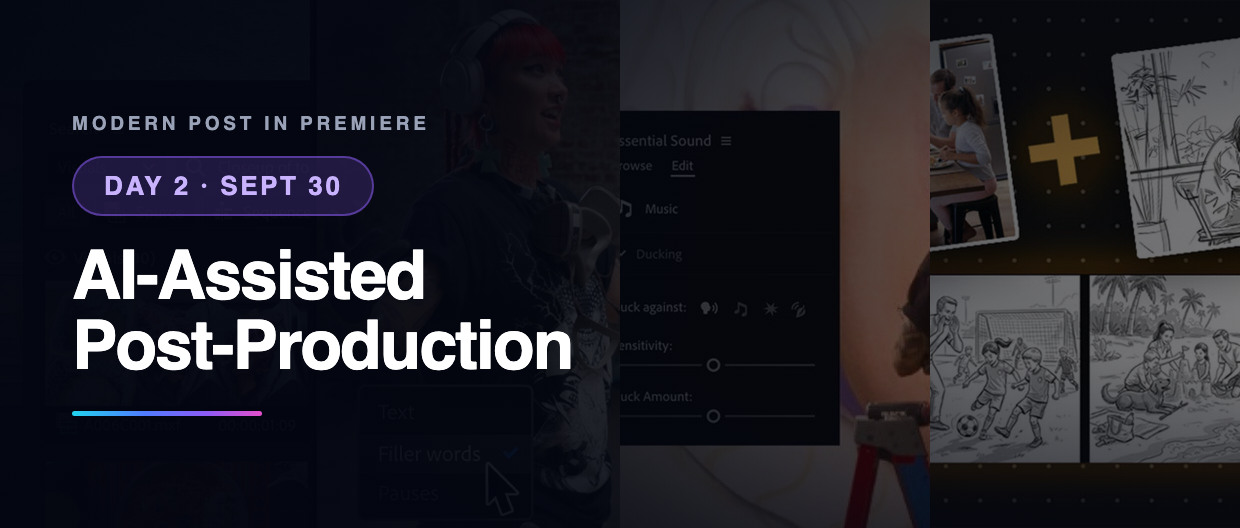
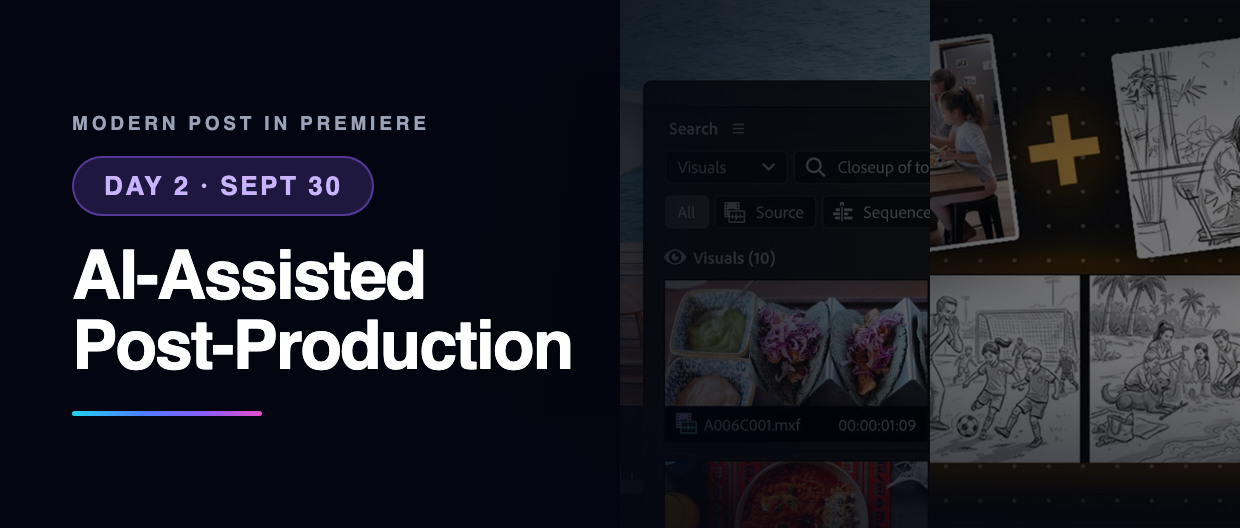
Email 3 hero: shift imagery clear of the headline
Went with the three-up direction, then fixed the crowding: the headline ends at x=569
and the imagery previously began at x=440, so the interface panel ran under the type.
Imagery now starts at x=620, giving 51px (26px at display size) of clean ground.

At that shift three panels would each be 206px (ratio 0.39) and the middle one becomes an
unreadable sliver of UI, so it is two full panels instead - Media Intelligence search and
Firefly Boards. Still covers find-footage through visualise, which was the point of moving
off the Firefly-only original.

diff --git a/assets/_herobuild/hero-alt-b1.html b/assets/_herobuild/hero-alt-b1.html
@@ -1,0 +1,21 @@
+<!DOCTYPE html><html><head><meta charset="utf-8">
+<link href="https://fonts.googleapis.com/css2?family=Source+Sans+3:wght@350;600;700;800&display=swap" rel="stylesheet">
+<style>
+ *{margin:0;padding:0;box-sizing:border-box}
+ html,body{width:1240px;height:528px;overflow:hidden;background:#030611;font-family:'Source Sans 3',sans-serif}
+ .h{position:relative;width:1240px;height:528px;overflow:hidden}
+ .bg{position:absolute;inset:0;width:100%;height:100%;object-fit:cover;filter:brightness(.52) saturate(.92)}
+ .scrim{position:absolute;inset:0;background:linear-gradient(96deg,rgba(3,6,17,.97) 0%,rgba(3,6,17,.92) 30%,rgba(3,6,17,.62) 54%,rgba(3,6,17,.22) 78%,rgba(3,6,17,.10) 100%)}
+ .vig{position:absolute;inset:0;background:linear-gradient(180deg,rgba(3,6,17,.35),transparent 30%,transparent 68%,rgba(3,6,17,.55))}
+ .c{position:relative;z-index:2;height:100%;display:flex;flex-direction:column;justify-content:center;padding-left:72px;max-width:800px}
+ .evt{font-size:19px;font-weight:700;letter-spacing:.2em;text-transform:uppercase;color:#9AA2B8;margin-bottom:22px}
+ .pill{display:inline-flex;width:fit-content;font-size:26px;font-weight:800;letter-spacing:.1em;text-transform:uppercase;
+   padding:13px 30px;border-radius:999px;margin-bottom:26px;background:rgba(139,92,246,.20);color:#C9B3FF;border:2px solid rgba(139,92,246,.5)}
+ .t{font-size:68px;font-weight:800;color:#fff;line-height:1.02;letter-spacing:-.028em}
+ .rule{margin-top:30px;width:190px;height:5px;border-radius:3px;
+   background:linear-gradient(90deg,#22D3EE,#4F7CFF 38%,#8B5CF6 70%,#E34FCB)}
+</style></head><body>
+<div class="h"><img class="bg" src="alt-b1.jpg"><div class="scrim"></div><div class="vig"></div>
+ <div class="c"><div class="evt">Modern Post in Premiere</div>
+  <div class="pill">Day 2 &middot; Sept 30</div><div class="t">AI-Assisted<br>Post-Production</div><div class="rule"></div></div>
+</div></body></html>

diff --git a/assets/_herobuild/hero-alt-b2.html b/assets/_herobuild/hero-alt-b2.html
@@ -1,0 +1,21 @@
+<!DOCTYPE html><html><head><meta charset="utf-8">
+<link href="https://fonts.googleapis.com/css2?family=Source+Sans+3:wght@350;600;700;800&display=swap" rel="stylesheet">
+<style>
+ *{margin:0;padding:0;box-sizing:border-box}
+ html,body{width:1240px;height:528px;overflow:hidden;background:#030611;font-family:'Source Sans 3',sans-serif}
+ .h{position:relative;width:1240px;height:528px;overflow:hidden}
+ .bg{position:absolute;inset:0;width:100%;height:100%;object-fit:cover;filter:brightness(.52) saturate(.92)}
+ .scrim{position:absolute;inset:0;background:linear-gradient(96deg,rgba(3,6,17,.97) 0%,rgba(3,6,17,.92) 30%,rgba(3,6,17,.62) 54%,rgba(3,6,17,.22) 78%,rgba(3,6,17,.10) 100%)}
+ .vig{position:absolute;inset:0;background:linear-gradient(180deg,rgba(3,6,17,.35),transparent 30%,transparent 68%,rgba(3,6,17,.55))}
+ .c{position:relative;z-index:2;height:100%;display:flex;flex-direction:column;justify-content:center;padding-left:72px;max-width:800px}
+ .evt{font-size:19px;font-weight:700;letter-spacing:.2em;text-transform:uppercase;color:#9AA2B8;margin-bottom:22px}
+ .pill{display:inline-flex;width:fit-content;font-size:26px;font-weight:800;letter-spacing:.1em;text-transform:uppercase;
+   padding:13px 30px;border-radius:999px;margin-bottom:26px;background:rgba(139,92,246,.20);color:#C9B3FF;border:2px solid rgba(139,92,246,.5)}
+ .t{font-size:68px;font-weight:800;color:#fff;line-height:1.02;letter-spacing:-.028em}
+ .rule{margin-top:30px;width:190px;height:5px;border-radius:3px;
+   background:linear-gradient(90deg,#22D3EE,#4F7CFF 38%,#8B5CF6 70%,#E34FCB)}
+</style></head><body>
+<div class="h"><img class="bg" src="alt-b2.jpg"><div class="scrim"></div><div class="vig"></div>
+ <div class="c"><div class="evt">Modern Post in Premiere</div>
+  <div class="pill">Day 2 &middot; Sept 30</div><div class="t">AI-Assisted<br>Post-Production</div><div class="rule"></div></div>
+</div></body></html>

diff --git a/assets/_herobuild/hero-alt-b3.html b/assets/_herobuild/hero-alt-b3.html
@@ -1,0 +1,21 @@
+<!DOCTYPE html><html><head><meta charset="utf-8">
+<link href="https://fonts.googleapis.com/css2?family=Source+Sans+3:wght@350;600;700;800&display=swap" rel="stylesheet">
+<style>
+ *{margin:0;padding:0;box-sizing:border-box}
+ html,body{width:1240px;height:528px;overflow:hidden;background:#030611;font-family:'Source Sans 3',sans-serif}
+ .h{position:relative;width:1240px;height:528px;overflow:hidden}
+ .bg{position:absolute;inset:0;width:100%;height:100%;object-fit:cover;filter:brightness(.52) saturate(.92)}
+ .scrim{position:absolute;inset:0;background:linear-gradient(96deg,rgba(3,6,17,.97) 0%,rgba(3,6,17,.92) 30%,rgba(3,6,17,.62) 54%,rgba(3,6,17,.22) 78%,rgba(3,6,17,.10) 100%)}
+ .vig{position:absolute;inset:0;background:linear-gradient(180deg,rgba(3,6,17,.35),transparent 30%,transparent 68%,rgba(3,6,17,.55))}
+ .c{position:relative;z-index:2;height:100%;display:flex;flex-direction:column;justify-content:center;padding-left:72px;max-width:800px}
+ .evt{font-size:19px;font-weight:700;letter-spacing:.2em;text-transform:uppercase;color:#9AA2B8;margin-bottom:22px}
+ .pill{display:inline-flex;width:fit-content;font-size:26px;font-weight:800;letter-spacing:.1em;text-transform:uppercase;
+   padding:13px 30px;border-radius:999px;margin-bottom:26px;background:rgba(139,92,246,.20);color:#C9B3FF;border:2px solid rgba(139,92,246,.5)}
+ .t{font-size:68px;font-weight:800;color:#fff;line-height:1.02;letter-spacing:-.028em}
+ .rule{margin-top:30px;width:190px;height:5px;border-radius:3px;
+   background:linear-gradient(90deg,#22D3EE,#4F7CFF 38%,#8B5CF6 70%,#E34FCB)}
+</style></head><body>
+<div class="h"><img class="bg" src="alt-b3.jpg"><div class="scrim"></div><div class="vig"></div>
+ <div class="c"><div class="evt">Modern Post in Premiere</div>
+  <div class="pill">Day 2 &middot; Sept 30</div><div class="t">AI-Assisted<br>Post-Production</div><div class="rule"></div></div>
+</div></body></html>

diff --git a/assets/_herobuild/hero-alt-c1.html b/assets/_herobuild/hero-alt-c1.html
@@ -1,0 +1,21 @@
+<!DOCTYPE html><html><head><meta charset="utf-8">
+<link href="https://fonts.googleapis.com/css2?family=Source+Sans+3:wght@350;600;700;800&display=swap" rel="stylesheet">
+<style>
+ *{margin:0;padding:0;box-sizing:border-box}
+ html,body{width:1240px;height:528px;overflow:hidden;background:#030611;font-family:'Source Sans 3',sans-serif}
+ .h{position:relative;width:1240px;height:528px;overflow:hidden}
+ .bg{position:absolute;inset:0;width:100%;height:100%;object-fit:cover;filter:brightness(.52) saturate(.92)}
+ .scrim{position:absolute;inset:0;background:linear-gradient(96deg,rgba(3,6,17,.97) 0%,rgba(3,6,17,.92) 30%,rgba(3,6,17,.62) 54%,rgba(3,6,17,.22) 78%,rgba(3,6,17,.10) 100%)}
+ .vig{position:absolute;inset:0;background:linear-gradient(180deg,rgba(3,6,17,.35),transparent 30%,transparent 68%,rgba(3,6,17,.55))}
+ .c{position:relative;z-index:2;height:100%;display:flex;flex-direction:column;justify-content:center;padding-left:72px;max-width:800px}
+ .evt{font-size:19px;font-weight:700;letter-spacing:.2em;text-transform:uppercase;color:#9AA2B8;margin-bottom:22px}
+ .pill{display:inline-flex;width:fit-content;font-size:26px;font-weight:800;letter-spacing:.1em;text-transform:uppercase;
+   padding:13px 30px;border-radius:999px;margin-bottom:26px;background:rgba(139,92,246,.20);color:#C9B3FF;border:2px solid rgba(139,92,246,.5)}
+ .t{font-size:68px;font-weight:800;color:#fff;line-height:1.02;letter-spacing:-.028em}
+ .rule{margin-top:30px;width:190px;height:5px;border-radius:3px;
+   background:linear-gradient(90deg,#22D3EE,#4F7CFF 38%,#8B5CF6 70%,#E34FCB)}
+</style></head><body>
+<div class="h"><img class="bg" src="alt-c1.jpg"><div class="scrim"></div><div class="vig"></div>
+ <div class="c"><div class="evt">Modern Post in Premiere</div>
+  <div class="pill">Day 2 &middot; Sept 30</div><div class="t">AI-Assisted<br>Post-Production</div><div class="rule"></div></div>
+</div></body></html>

diff --git a/assets/_herobuild/hero-alt-c2.html b/assets/_herobuild/hero-alt-c2.html
@@ -1,0 +1,21 @@
+<!DOCTYPE html><html><head><meta charset="utf-8">
+<link href="https://fonts.googleapis.com/css2?family=Source+Sans+3:wght@350;600;700;800&display=swap" rel="stylesheet">
+<style>
+ *{margin:0;padding:0;box-sizing:border-box}
+ html,body{width:1240px;height:528px;overflow:hidden;background:#030611;font-family:'Source Sans 3',sans-serif}
+ .h{position:relative;width:1240px;height:528px;overflow:hidden}
+ .bg{position:absolute;inset:0;width:100%;height:100%;object-fit:cover;filter:brightness(.52) saturate(.92)}
+ .scrim{position:absolute;inset:0;background:linear-gradient(96deg,rgba(3,6,17,.97) 0%,rgba(3,6,17,.92) 30%,rgba(3,6,17,.62) 54%,rgba(3,6,17,.22) 78%,rgba(3,6,17,.10) 100%)}
+ .vig{position:absolute;inset:0;background:linear-gradient(180deg,rgba(3,6,17,.35),transparent 30%,transparent 68%,rgba(3,6,17,.55))}
+ .c{position:relative;z-index:2;height:100%;display:flex;flex-direction:column;justify-content:center;padding-left:72px;max-width:800px}
+ .evt{font-size:19px;font-weight:700;letter-spacing:.2em;text-transform:uppercase;color:#9AA2B8;margin-bottom:22px}
+ .pill{display:inline-flex;width:fit-content;font-size:26px;font-weight:800;letter-spacing:.1em;text-transform:uppercase;
+   padding:13px 30px;border-radius:999px;margin-bottom:26px;background:rgba(139,92,246,.20);color:#C9B3FF;border:2px solid rgba(139,92,246,.5)}
+ .t{font-size:68px;font-weight:800;color:#fff;line-height:1.02;letter-spacing:-.028em}
+ .rule{margin-top:30px;width:190px;height:5px;border-radius:3px;
+   background:linear-gradient(90deg,#22D3EE,#4F7CFF 38%,#8B5CF6 70%,#E34FCB)}
+</style></head><body>
+<div class="h"><img class="bg" src="alt-c2.jpg"><div class="scrim"></div><div class="vig"></div>
+ <div class="c"><div class="evt">Modern Post in Premiere</div>
+  <div class="pill">Day 2 &middot; Sept 30</div><div class="t">AI-Assisted<br>Post-Production</div><div class="rule"></div></div>
+</div></body></html>

diff --git a/assets/_herobuild/hero-alt-c3.html b/assets/_herobuild/hero-alt-c3.html
@@ -1,0 +1,21 @@
+<!DOCTYPE html><html><head><meta charset="utf-8">
+<link href="https://fonts.googleapis.com/css2?family=Source+Sans+3:wght@350;600;700;800&display=swap" rel="stylesheet">
+<style>
+ *{margin:0;padding:0;box-sizing:border-box}
+ html,body{width:1240px;height:528px;overflow:hidden;background:#030611;font-family:'Source Sans 3',sans-serif}
+ .h{position:relative;width:1240px;height:528px;overflow:hidden}
+ .bg{position:absolute;inset:0;width:100%;height:100%;object-fit:cover;filter:brightness(.52) saturate(.92)}
+ .scrim{position:absolute;inset:0;background:linear-gradient(96deg,rgba(3,6,17,.97) 0%,rgba(3,6,17,.92) 30%,rgba(3,6,17,.62) 54%,rgba(3,6,17,.22) 78%,rgba(3,6,17,.10) 100%)}
+ .vig{position:absolute;inset:0;background:linear-gradient(180deg,rgba(3,6,17,.35),transparent 30%,transparent 68%,rgba(3,6,17,.55))}
+ .c{position:relative;z-index:2;height:100%;display:flex;flex-direction:column;justify-content:center;padding-left:72px;max-width:800px}
+ .evt{font-size:19px;font-weight:700;letter-spacing:.2em;text-transform:uppercase;color:#9AA2B8;margin-bottom:22px}
+ .pill{display:inline-flex;width:fit-content;font-size:26px;font-weight:800;letter-spacing:.1em;text-transform:uppercase;
+   padding:13px 30px;border-radius:999px;margin-bottom:26px;background:rgba(139,92,246,.20);color:#C9B3FF;border:2px solid rgba(139,92,246,.5)}
+ .t{font-size:68px;font-weight:800;color:#fff;line-height:1.02;letter-spacing:-.028em}
+ .rule{margin-top:30px;width:190px;height:5px;border-radius:3px;
+   background:linear-gradient(90deg,#22D3EE,#4F7CFF 38%,#8B5CF6 70%,#E34FCB)}
+</style></head><body>
+<div class="h"><img class="bg" src="alt-c3.jpg"><div class="scrim"></div><div class="vig"></div>
+ <div class="c"><div class="evt">Modern Post in Premiere</div>
+  <div class="pill">Day 2 &middot; Sept 30</div><div class="t">AI-Assisted<br>Post-Production</div><div class="rule"></div></div>
+</div></body></html>

diff --git a/assets/_herobuild/hero-alt-d2.html b/assets/_herobuild/hero-alt-d2.html
@@ -1,0 +1,21 @@
+<!DOCTYPE html><html><head><meta charset="utf-8">
+<link href="https://fonts.googleapis.com/css2?family=Source+Sans+3:wght@350;600;700;800&display=swap" rel="stylesheet">
+<style>
+ *{margin:0;padding:0;box-sizing:border-box}
+ html,body{width:1240px;height:528px;overflow:hidden;background:#030611;font-family:'Source Sans 3',sans-serif}
+ .h{position:relative;width:1240px;height:528px;overflow:hidden}
+ .bg{position:absolute;inset:0;width:100%;height:100%;object-fit:cover;filter:brightness(.52) saturate(.92)}
+ .scrim{position:absolute;inset:0;background:linear-gradient(96deg,rgba(3,6,17,.97) 0%,rgba(3,6,17,.92) 30%,rgba(3,6,17,.62) 54%,rgba(3,6,17,.22) 78%,rgba(3,6,17,.10) 100%)}
+ .vig{position:absolute;inset:0;background:linear-gradient(180deg,rgba(3,6,17,.35),transparent 30%,transparent 68%,rgba(3,6,17,.55))}
+ .c{position:relative;z-index:2;height:100%;display:flex;flex-direction:column;justify-content:center;padding-left:72px;max-width:800px}
+ .evt{font-size:19px;font-weight:700;letter-spacing:.2em;text-transform:uppercase;color:#9AA2B8;margin-bottom:22px}
+ .pill{display:inline-flex;width:fit-content;font-size:26px;font-weight:800;letter-spacing:.1em;text-transform:uppercase;
+   padding:13px 30px;border-radius:999px;margin-bottom:26px;background:rgba(139,92,246,.20);color:#C9B3FF;border:2px solid rgba(139,92,246,.5)}
+ .t{font-size:68px;font-weight:800;color:#fff;line-height:1.02;letter-spacing:-.028em}
+ .rule{margin-top:30px;width:190px;height:5px;border-radius:3px;
+   background:linear-gradient(90deg,#22D3EE,#4F7CFF 38%,#8B5CF6 70%,#E34FCB)}
+</style></head><body>
+<div class="h"><img class="bg" src="alt-d2.jpg"><div class="scrim"></div><div class="vig"></div>
+ <div class="c"><div class="evt">Modern Post in Premiere</div>
+  <div class="pill">Day 2 &middot; Sept 30</div><div class="t">AI-Assisted<br>Post-Production</div><div class="rule"></div></div>
+</div></body></html>

diff --git a/assets/_herobuild/hero-alt-d3.html b/assets/_herobuild/hero-alt-d3.html
@@ -1,0 +1,21 @@
+<!DOCTYPE html><html><head><meta charset="utf-8">
+<link href="https://fonts.googleapis.com/css2?family=Source+Sans+3:wght@350;600;700;800&display=swap" rel="stylesheet">
+<style>
+ *{margin:0;padding:0;box-sizing:border-box}
+ html,body{width:1240px;height:528px;overflow:hidden;background:#030611;font-family:'Source Sans 3',sans-serif}
+ .h{position:relative;width:1240px;height:528px;overflow:hidden}
+ .bg{position:absolute;inset:0;width:100%;height:100%;object-fit:cover;filter:brightness(.52) saturate(.92)}
+ .scrim{position:absolute;inset:0;background:linear-gradient(96deg,rgba(3,6,17,.97) 0%,rgba(3,6,17,.92) 30%,rgba(3,6,17,.62) 54%,rgba(3,6,17,.22) 78%,rgba(3,6,17,.10) 100%)}
+ .vig{position:absolute;inset:0;background:linear-gradient(180deg,rgba(3,6,17,.35),transparent 30%,transparent 68%,rgba(3,6,17,.55))}
+ .c{position:relative;z-index:2;height:100%;display:flex;flex-direction:column;justify-content:center;padding-left:72px;max-width:800px}
+ .evt{font-size:19px;font-weight:700;letter-spacing:.2em;text-transform:uppercase;color:#9AA2B8;margin-bottom:22px}
+ .pill{display:inline-flex;width:fit-content;font-size:26px;font-weight:800;letter-spacing:.1em;text-transform:uppercase;
+   padding:13px 30px;border-radius:999px;margin-bottom:26px;background:rgba(139,92,246,.20);color:#C9B3FF;border:2px solid rgba(139,92,246,.5)}
+ .t{font-size:68px;font-weight:800;color:#fff;line-height:1.02;letter-spacing:-.028em}
+ .rule{margin-top:30px;width:190px;height:5px;border-radius:3px;
+   background:linear-gradient(90deg,#22D3EE,#4F7CFF 38%,#8B5CF6 70%,#E34FCB)}
+</style></head><body>
+<div class="h"><img class="bg" src="alt-d3.jpg"><div class="scrim"></div><div class="vig"></div>
+ <div class="c"><div class="evt">Modern Post in Premiere</div>
+  <div class="pill">Day 2 &middot; Sept 30</div><div class="t">AI-Assisted<br>Post-Production</div><div class="rule"></div></div>
+</div></body></html>
